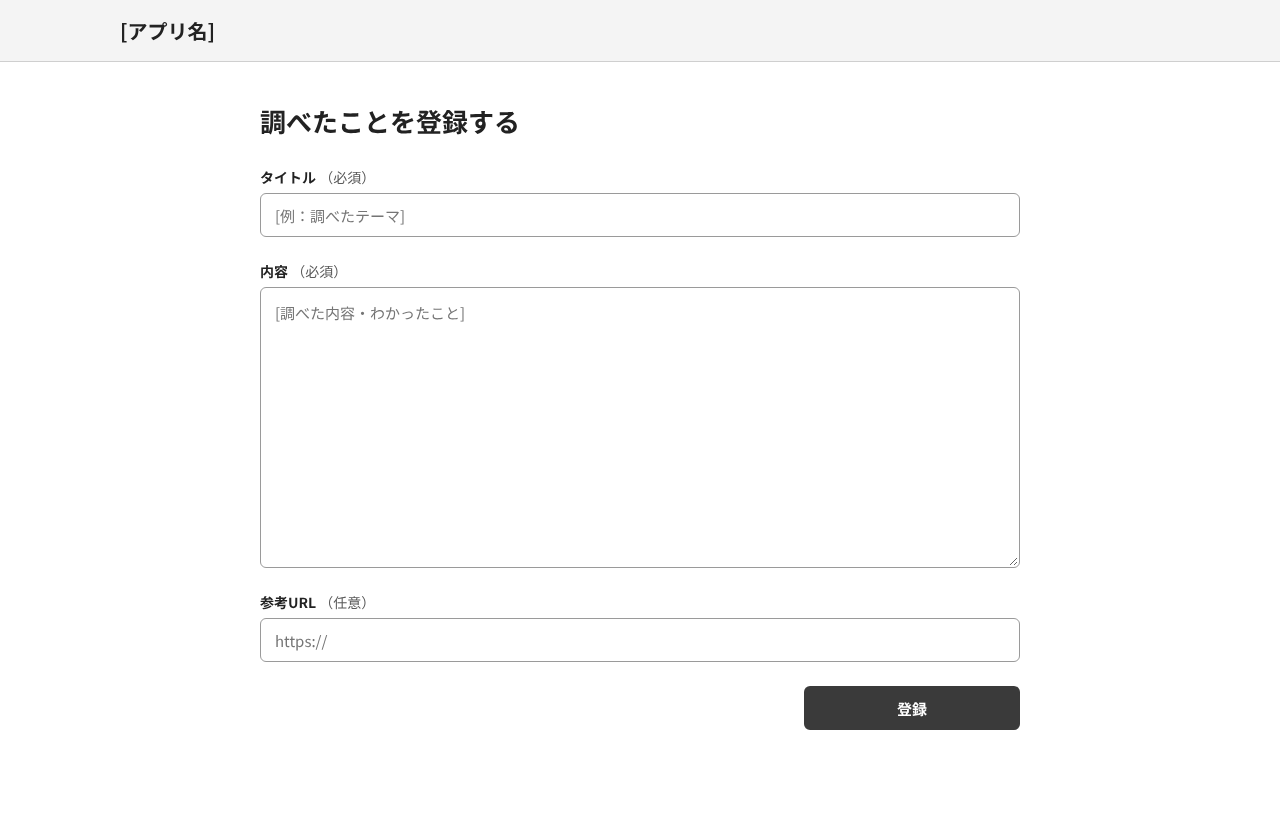
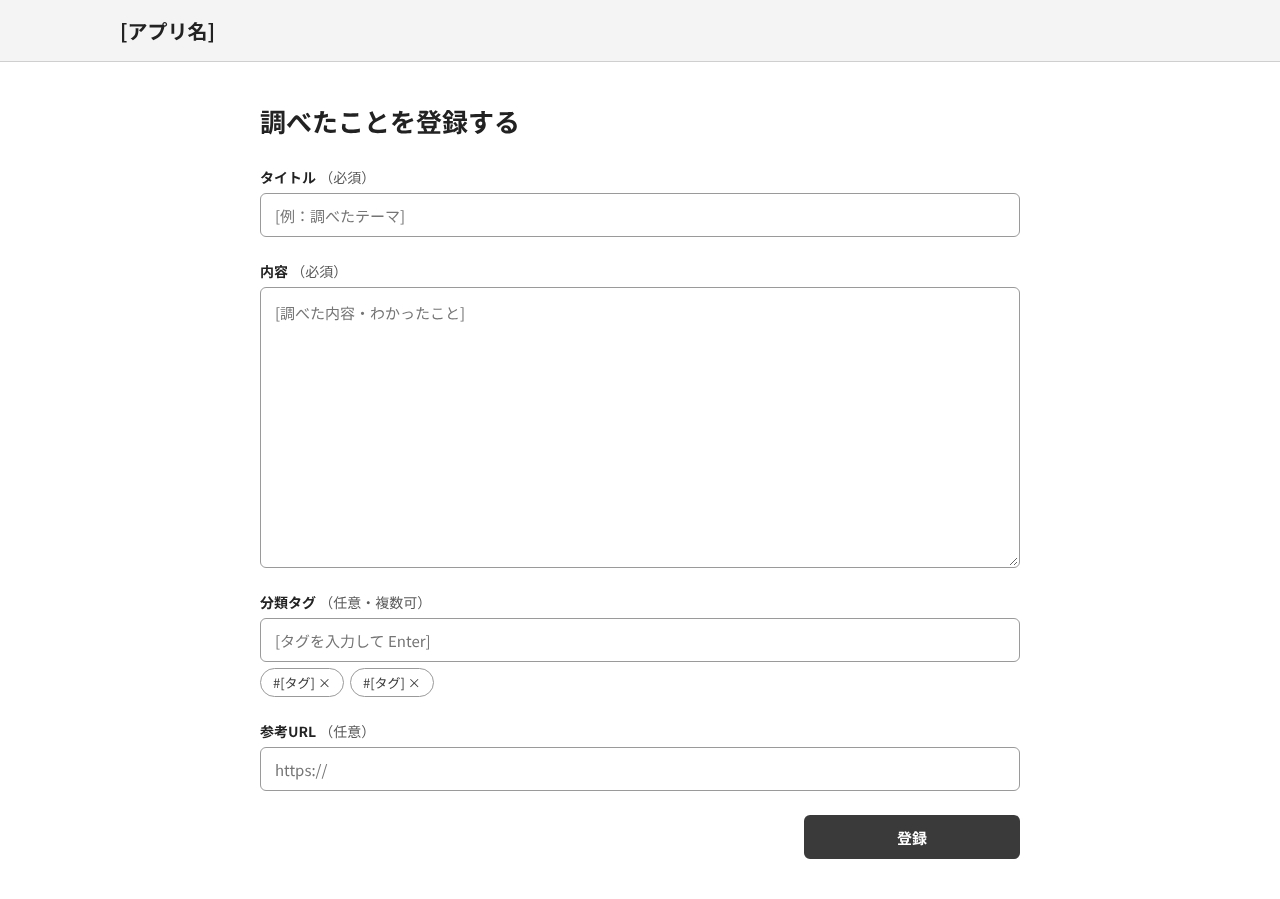
要件定義に合わせてワイヤーフレームと画面遷移図を更新
- 登録・編集画面に分類タグを追加
- 検索画面にタグでの絞り込みを追加
- 一覧と詳細画面に検索回数を表示
- 詳細画面に編集・削除ボタン、編集画面を追加

Claude-Session: https://claude.ai/code/session_01XYqxWkJA5TyF4S8ZnfHXJA

diff --git a/documents/Design.md b/documents/Design.md
@@ -29,6 +29,9 @@ flowchart TD
    登録画面 -- 登録 --> 検索画面
    検索画面 -- 一覧から選択 --> 詳細画面
    詳細画面 -- 戻る --> 検索画面 
+   詳細画面 -- 編集 --> 編集画面
+   編集画面 -- 更新 / キャンセル --> 詳細画面
+   詳細画面 -- 削除 --> 検索画面
 ```
 
 ## 3.ワイヤーフレーム
@@ -44,6 +47,9 @@ flowchart TD
 
 ### 詳細画面
 ![詳細画面](wireframes/detail.png)
+
+### 編集画面
+![編集画面](wireframes/edit.png)
 
 
 ## 4.テーブル定義書
